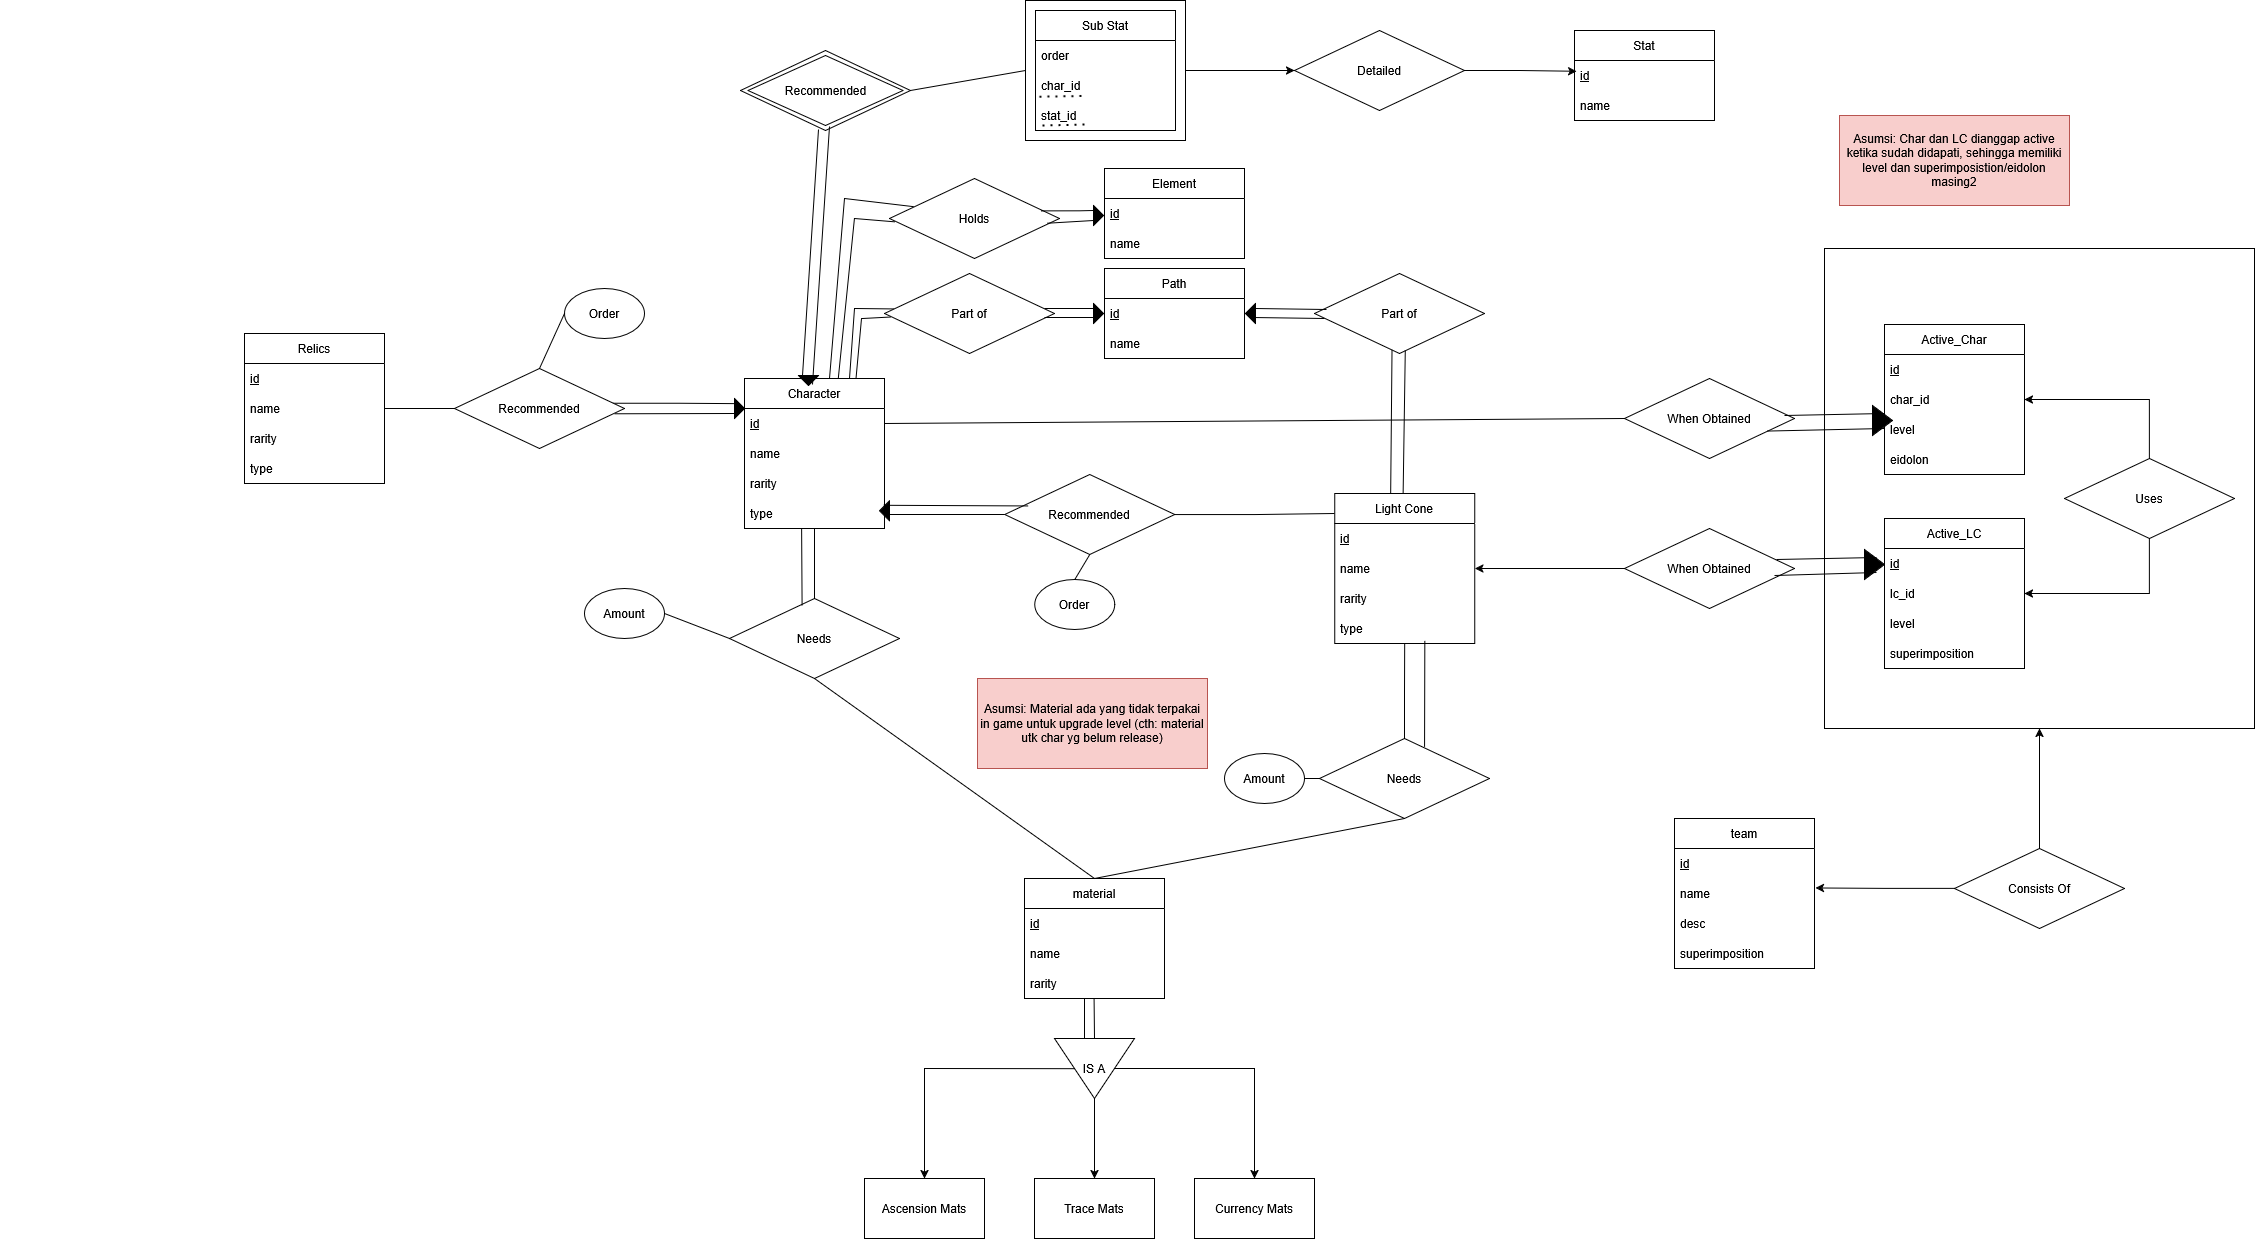
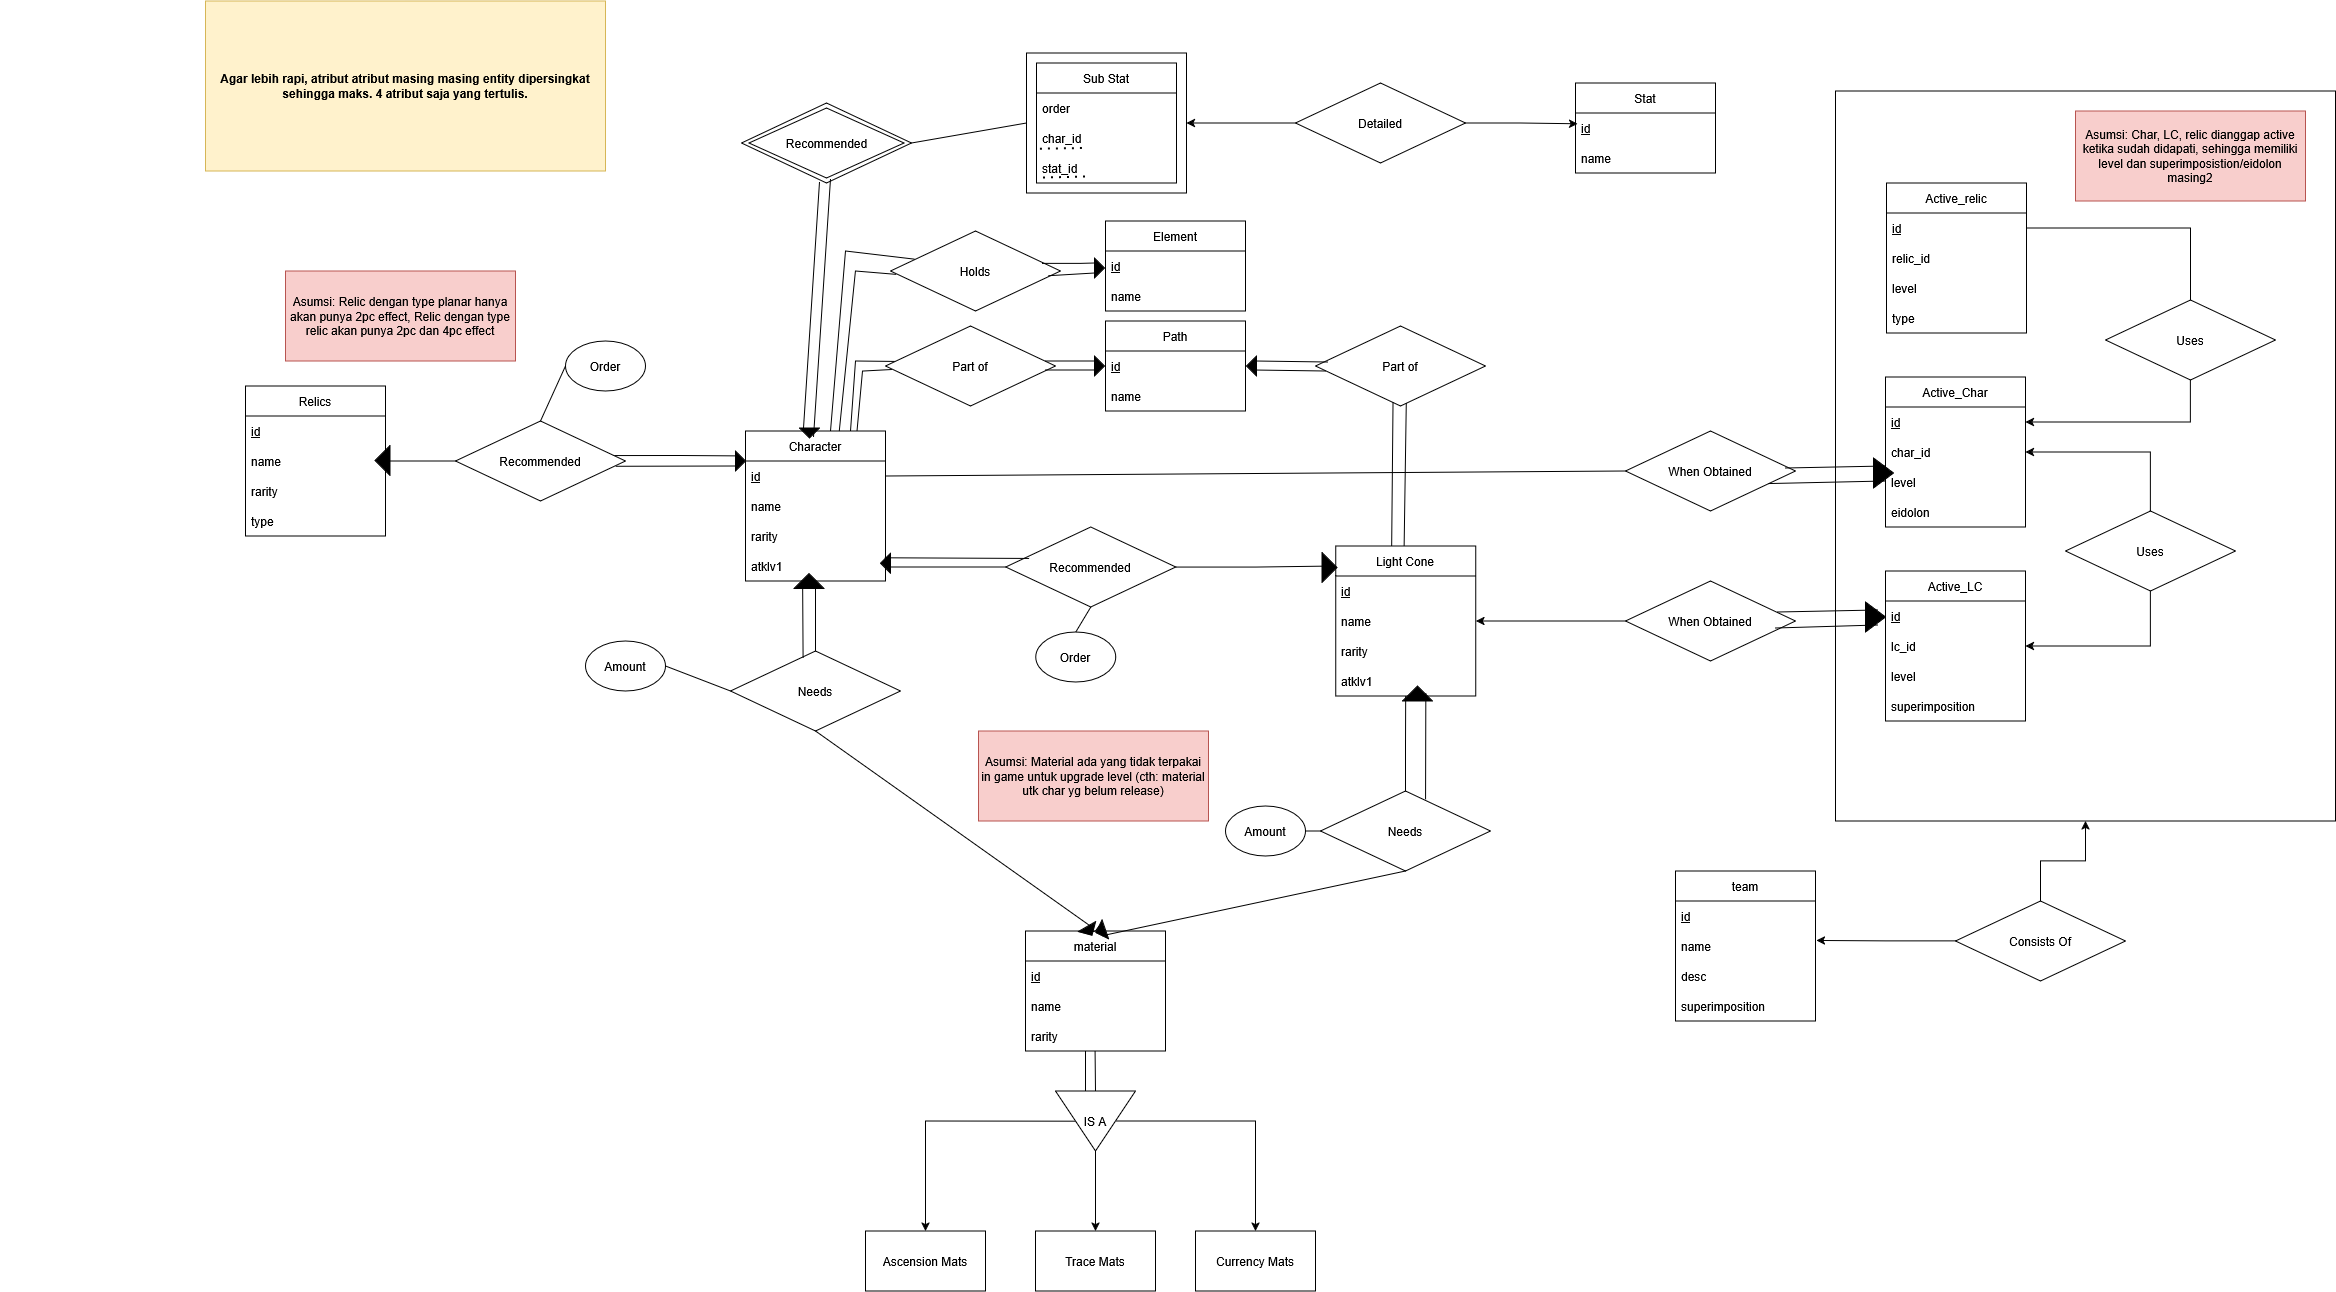
finalize

diff --git a/main.py b/main.py
@@ -3,7 +3,6 @@ import sys
 import subprocess
 import psycopg2
 
-# Add Data Storing/src to path to import load_data
 sys.path.append(os.path.join(os.path.dirname(os.path.abspath(__file__)), 'Data Storing', 'src'))
 from load_data import load
 
@@ -18,25 +17,19 @@ DB_CONFIG = {
 def main():
     root_dir = os.path.dirname(os.path.abspath(__file__))
     
-    # 1. Run Data Scraping/src/main.py
     print("--- [MAIN] Run Data Scraping ---")
     scraping_src = os.path.join(root_dir, 'Data Scraping', 'src')
     scraping_main = os.path.join(scraping_src, 'main.py')
-    
     try:
         subprocess.run([sys.executable, scraping_main], cwd=scraping_src, check=True)
     except subprocess.CalledProcessError as e:
         print(f"[MAIN::ERROR] Data Scraping: {e}")
         return
 
-        
-    # 2. Run schema.sql
     print("\n--- [MAIN] Push schema.sql ---")
     schema_path = os.path.join(root_dir, 'Data Storing', 'src', 'schema.sql')
-    
     with open(schema_path, 'r', encoding='utf-8') as f:
         schema_sql = f.read()
-        
     print(f"[MAIN] Connecting to database {DB_CONFIG['dbname']} at {DB_CONFIG['host']}:{DB_CONFIG['port']}...")
     try:
         conn = psycopg2.connect(**DB_CONFIG)
@@ -48,7 +41,6 @@ def main():
     except psycopg2.Error as e:
         print(f"[MAIN::ERROR] schema.sql: {e}")
         
-    # 3. Run load() in load_data.py
     print("\n--- [MAIN] Run load_data.load() ---")
     try:
         load(DB_CONFIG)

diff --git a/README.MD b/README.MD
@@ -4,72 +4,110 @@
   ETL Project
   <br>
   <br>
-</h1>
 
-<h2 align="left">
-  <br>
-  Singkatnya?
-  <br>
-</h2>
-Pada tahap seleksi ini, peserta akan diminta untuk melakukan proses ETL yang meliputi data scraping, database modeling, dan data storing terkait sebuah topik yang dibebaskan kepada peserta. Peserta juga diminta untuk merancang sebuah model ERD dan model relasional yang akan diimplementasikan untuk menyimpan hasil proses data scraping sebelumnya. Tahap seleksi ini menguji kemampuan peserta untuk mengumpulkan data, merancang sebuah database, dan merealisasikan rancangan tersebut menjadi sebuah database relasional yang fungsional.
-  <br>
+## Author
 
-## Step 1: Data Scraping
-1. Pilih sebuah topik yang akan kalian jadikan sebagai tema pada seleksi _data scraping_ Anda. Daftarkan topik tersebut ke dalam spreadsheet berikut:
-[Daftar Topik Seleksi Asisten Lab Basis Data 2026](https://docs.google.com/spreadsheets/d/1cowSMPtWQApyALrypfMBJSOuqbXyGh2cCaDXKRs8fD4/edit?usp=sharing)
-    - Usahakan agar tidak ada dua atau lebih peserta dengan topik yang sama
-    - First come, first served. Bila ada dua atau lebih peserta dengan topik yang sama, peserta dengan topik yang sudah terdaftar duluan (berada di atas) akan diprioritaskan.
-    - Akses edit ke _spreadsheet_ topik data scraping akan ditutup pada tanggal **25 Juli pukul 20:40 WIB**
-2. Lakukan _data scraping_ dari sebuah _web page_ untuk memperoleh data dan informasi sesuai dengan topik yang telah dipilih oleh masing-masing peserta. 
-    - Data dan informasi yang diperoleh akan digunakan di _step_ berikutnya sebagai data yang akan disimpan di dalam sebuah RDBMS
-    - Peserta **DILARANG** menggunakan API untuk melakukan proses data scraping
-3. Pada folder `Data Scraping`, peserta harus mengumpulkan file _script_ dan file JSON hasil _scraping_ yang telah dilakukan
-    - Folder `src` berisi _script_/_code_ yang telah digunakan untuk _scraping_. Pastikan bahwa _script_/_code_ yang kalian bua bersifat well documented dan clean. 
-    - Folder `data` berisi semua data dan informasi yang berhasil kalian scrape dalam bentu JSON. Peserta diperbolehkan untuk memisahkan hasil _scraping_ ke dalam file-file yang berbeda ataupun digabung dalam satu file yang besar. Yang penting sesuai dengan output dari _script_ _data scraping_ yang digunakan
-    - Folder `screenshot` berisi tangkapan layar dari _script/code_ yang kalian gunakan untuk _data scraping_. Pastikan tangkapan layar dapat dibaca dengan jelas
-4. Sebagai referensi untuk mempelajari dan mengenal _data scraping_, asisten telah menyiapkan dokumen panduan singkat pada link berikut: Panduan Singkat Data Scraping
-    - Dokumen tersebut hanya merupakan panduan bagi peserta. Metodologi _data scraping_ yang digunakan oleh peserta seleksi basdat dibebaskan (asal sesuai peraturan)
-    - Perhatikan dan peragakan etika _data scraping_ yang baik dalam pelaksanaan seleksi ini
-5. Syarat data yang diperoleh dari proses data scraping: Data yang diperoleh harus di-_preprocessing_ terlebih dahulu
-    - Beberapa contoh _preprocessing_:
-        - Cleaning
-        - Parsing
-        - Transformation
-        - Dll
-    - Preprocessing dilakukan untuk memastikan data yang diterima tidak sepenuh-penuhnya mentah dan tidak dapat dipahami dengan mudah
-  
+- **Nama:** Natanael I Manurung
+- **NIM:** 13524021
 
-## Step 2: Data Modeling + Data Storing
-1. Dari hasil proses _data scraping_ yang telah dilakukan, lakukan perancangan _database_ dalam bentuk **ERD**. Sertakan asumsi dan penjelasan di dalam desain ERD-nya bila diperlukan
-2. Translasikan hasil desain ERD tersebut ke dalam bentuk diagram relasional. Peserta dipersilahkan untuk menambahkan tabel lain yang sekiranya relevan atau berkaitan dengan tabel-tabel yang murni didapatkan dari proses _data scraping_.
-3. Implementasikan skema diagram relasional tersebut ke dalam RDBMS sesuai pilihan peserta (PostgreSQL, mariaDB, etc). Peserta **dilarang** untuk menggunakan DBMS no-SQL
-    - Jangan lupa untuk mengimplementasikan _constraints_ ke dalam _database_ (primary key, foreign key, trigger, dll)
-4. Setelah _database_-nya telah diimplementasikan, masukkan data yang didapatkan dari proses _scraping_ ke dalam RDBMS yang telah dibuat
-    - Tabel tambahan yang dibuat pada poin 2 tidak perlu diisi dengan data (baik data _dummy_ maupun data asli). Cukup dibiarkan kosong
-5. Tools yang digunakan dibebaskan kepada peserta
-6. Pada folder `Data Storing`, peserta harus mengumpulkan bukti penyimpanan data pada DBMS. Folder `Data Storing` terdiri dari folder `design`, `export`, dan `screenshots`.
-    - Folder `design` berisi gambar ERD dan gambar diagram relasional dari _database_ yang kalian rancang. Format file yang diterima adalah **.png**
-    - Folder `src` berisi script/code yang telah digunakan untuk storing. Pastikan bahwa script/code yang kalian bua bersifat well documented dan clean. 
-    - Folder `export` berisi file hasil _export_ dari DBMS dengan format **.sql**
-    - Folder `screenshots` berisi tangkapan layar bukti dari penyimpanan data ke dalam RDBMS (Query SELECT FROM WHERE pada RDBMS)
+## Deskripsi Singkat
 
-## Bonus:
-Task-task berikut merupakan bonus yang **TIDAK WAJIB** dilakukan oleh peserta seleksi. Penyelesaian satu atau lebih dari task bonus akan membawa nilai tambahan bagi peserta yang menyelesaikannya. Peserta dibolehkan untuk mengerjakan sebagian atau seluruh dari task bonus yang tersedia
-1. Buatlah perancangan dan implementasi data warehouse berdasarkan data yang diperoleh dari proses data scraping. Rancanglah skema yang diperlukan untuk fact table dan dimension table (misalnya menggunakan pendekatan star schema atau snowflake schema) untuk mendukung kebutuhan analitik. Sertakan struktur skema data warehouse yang digunakan beserta contoh query analitik yang bisa dijalankan terhadap data tersebut. 
-2. Lakukan automated scheduling untuk keseluruhan proses, sehingga data dapat di-update secara berkala. Pastikan tidak terdapat redundansi data pada DBMS. Jika mengerjakan bonus ini, jelaskan pada README dan cantumkan pada data waktu pelaksanaan scheduling, misalnya dengan menunjukkan perbedaan timestamp ekstraksi antara data pada batch pertama dan data pada batch kedua
+**Data & DBMS:**
+Data yang diambil adalah data karakter, light cone, relic, dan material dari game Honkai Star Rail. DBMS yang digunakan adalah PostgreSQL. Data akan diambil dari website game8.co, website guide yang berisikan data data tertera. Dikarenakan ini adalah website guide, data yang ditarik bukan hanya data data masing masing entity saja. Terdapat rekomendasi rekomendasi pairing, antara karakter dan LC, karakter dan Relic, dan pairing lainnya yang akan tercantum pada database.
 
+**Mengapa memilih topik tersebut:**
+Selain dari ketertarikan pribadi terhadap topik ini, data yang ditarik saling berkaitan, jumlahnya yang banyak, dan informasi yang bersifat widely available menurut saya menjadi salah satu contoh terbaik terhadap pengaplikasian tugas data scraping. Mengapa memilih website game8.co? Karena data datanya paling "cocok" adanya disitu, meski pada awalnya mau menggunakan prydwen.gg, namun web yang kompleks dan cloudflare yang agresif mengakibatkan beautifulsoup terlalu kewalahan dalam melakukan webscraping. Struktur game8.co "mostly" konsisten, tapi tetap dihadapi beberapa masalah terkait konsistensi baik pada struktur web atau dari data yang tercantum
 
-# Pengumpulan
-1. Peserta diwajibkan untuk melakukan _fork_ terhadap project [GitHub Seleksi Lab Basdat 2026](https://github.com/wargabasdat/Seleksi-2026-Tugas-1). Peserta harus melakukan _pull request_ dengan nama **TUGAS_SELEKSI_1_[NIM]** sebelum tenggat waktu yang telah ditetapkan
-2. Tambahkan **.gitignore** pada _file_ atau _folder_ yang tidak perlu di-upload. NB: Binary tidak perlu di-upload
-3. Sertakan file **README** yang memuat:
-    - Author (Nama dan NIM)
-    - Deskripsi singkat mengenai data dan DBMS yang telah dibuat + mengapa kalian memilih topik tersebut
-    - Cara menggunakan scraper yang telah dibuat dan menggunakan hasil output-nya
-    - Penjelasan struktur dari file JSON yang dihasilkan scraper
-    - Struktur ERD dan diagram relasional RDBMS
-    - Penjelasan mengenai proses translasi ERD menjadi diagram relasional
-    - Beberapa screenshot dari program yang dijalankan (image di-upload sesuai folder-folder yang tersedia, di README tinggal ditampilkan)
-    - Referensi (library yang digunakan, link halaman web yang di-scrape, etc)
-  
-# DEADLINE PENGUMPULAN ADALAH TANGGAL 23 Juli 2026, PUKUL 22:40
+## Cara Menggunakan Scraper dan Output-nya
+
+**Menjalankan Scraper:**
+
+1. Pastikan credential postgres (username, password, port) sudah tepat di `main.py`
+2. Install dependencies: `pip install -r requirements.txt`
+3. Jalankan script utama: `python main.py`
+
+**Menggunakan Output:**
+
+- Hasil scraping akan disimpan dalam folder `Data Scraping/data/` dalam bentuk file JSON.
+- Secara otomatis, `main.py` akan menjalankan query dari `schema.sql` dan loading data dari JSON ke dalam PostgreSQL.
+
+## Struktur File JSON
+
+Berikut adalah struktur dari file JSON yang dihasilkan oleh scraper di folder `Data Scraping/data/`:
+
+- **characters.json:** Kumpulan data karakter berupa _List of Dictionary_ yang berisi atribut `name`, `archive_id`, `url`, `basic_info` (rarity, path, element), `base_stats` (HP, ATK, DEF, SPD untuk level 1 dan 80), `best_build` (rekomendasi light cone, relic, dan main stats), `recommended_stats` (sub-stats priority), serta `total_materials` (material ascension dan traces).
+- **light_cone.json:** Kumpulan data Light Cone berupa _List of Dictionary_ yang memuat `name`, `archive_id`, `url`, `basic_info` (rarity, path), `base_stats` (HP, ATK, DEF level 1 dan 80), `passive_skill` (nama dan deskripsi pasif), dan `total_materials` (kebutuhan material ascension).
+- **relic.json:** Kumpulan data Relic dan Planar berupa _List of Dictionary_ yang meliputi `name`, `archive_id`, `url`, `type` (relic atau planar), dan `set_effects` (deskripsi efek 2-piece dan 4-piece).
+- **materials.json:** Daftar material berupa _List of Dictionary_ yang berisi `name`, `rarity` (rating bintang), dan `type` (kategori seperti currency, ascension_mat, atau trace_mat).
+
+## Struktur ERD dan Diagram Relasional
+
+Pada skema kita akan selalu berpusat pada 4 entity utama: Character, Light Cone, Relic, dan Materials. Rekomendasi penggunaan suatu barang (char - LC, char - Relic, dsb) beserta dengan keterikatan material yang digunakan untuk upgrade char atau LC semua akan kita tuliskan dalam sebuah weak entity relation berisikan key dari kedua entity yang bersangkutan. Untuk memunculkan adanya relasi antara char dan LC yang digunakannya sekarang, ditambahkan empat relasi/entity active_char, active_lc, active_relic, dan team sebagai hub dari relasi relasi "active" tersebut. Team ini akan menjadi representasi tim yang aktif digunakan player berisikan kit yang benar benar digunakannya.
+
+- **ERD:**
+  ![ERD](Data%20Storing/design/erd.png)
+- **Diagram Relasional:**
+  ![Relational Diagram](Data%20Storing/design/relational_diagram.png)
+
+## Proses Translasi ERD ke Diagram Relasional
+
+### 1. Strong entity -> Tabel dengan Primary Key Tunggal
+
+Strong entity kuat pada ERD (Character, Light Cone, Relics/relic_set, Element, Path, Stat, material, team) ditranslate menjadi satu tabel dengan surrogate key (serial) sebagai primary key, misalnya character_id, light_cone_id, relic_set_id. Atribut natural seperti archive_id (hasil scraping) tetap disimpan sebagai unique key alternatif untuk keperluan traceability terhadap sumber data dari scraping, bukan sebagai PK utama.
+
+### 2. Relasi One-to-Many -> Foreign Key pada Sisi "Many"
+
+Relasi seperti Part of (Character/Light Cone → Path) dan Holds (Character → Element) ditranslate menjadi kolom foreign key pada tabel di sisi "many":
+
+character.path_id dan character.element_id
+light_cone.path_id
+
+Pola yang sama berlaku pada relasi When Obtained (Character → Active_Char, Light Cone → Active_LC), di mana active_character.character_id dan active_character.equipped_lc_id menjadi FK yang menunjuk ke entitas induknya.
+
+### 3. Relasi Many-to-Many -> Tabel Junction
+
+Setiap relasi many-to-many pada ERD (Recommended, Needs) ditranslate menjadi tabel junction tersendiri dengan composite primary key dari kedua FK yang terlibat, ditambah atribut milik relasi itu sendiri:
+
+Character Needs Material (atribut Amount) -> character_ascension_material dan character_trace_material (dipisah berdasarkan type material agar query lebih spesifik)
+Light Cone Needs Material -> light_cone_ascension_material
+Character Recommended Light Cone (atribut Order) -> character_recommended_lc dengan kolom priority_rank
+Character Recommended Relics -> character_recommended_relic dengan kolom priority_rank
+
+Karena satu relasi Recommended pada ERD digambar generik untuk beberapa pasangan entitas berbeda (Relics, Light Cone, Sub Stat), masing-masing decompose menjadi tabel junction terpisah agar tidak ambigu secara relasional.
+
+### 4. Weak Entity -> Tabel dengan Composite Key yang Mengandung FK strongnya
+
+Entitas Sub Stat pada ERD sebenarnya adalah representasi relasi many-to-many antara Character dan Stat (via relasi Detailed) yang memiliki atribut order. Ini ditranslate menjadi dua tabel:
+
+character_sub_stat_priority (composite PK: character_id, stat_id)
+character_main_stat (composite PK: character_id, slot, stat_id), karena satu karakter punya prioritas stat berbeda untuk tiap slot gear.
+
+### 5. Relasi Generalisasi/ISA -> Single Table dengan Kolom Diskriminator
+
+Generalisasi Material IS A {Ascension Mats, Trace Mats, Currency Mats} tidak ditranslate menjadi tabel terpisah per subtipe, melainkan digabung menjadi satu tabel material dengan kolom type (ascension_mat | trace_mat | currency) sebagai diskriminator. Pendekatan ini dipilih karena seluruh subtipe berbagi struktur atribut yang identik (name, rarity), sehingga pemisahan tabel hanya akan menambah kompleksitas join tanpa manfaat.
+
+### 6. Relasi One-to-One -> FK Nullable dengan Unique Constraint
+
+Relasi Uses antara Active_Char dan Active_LC ditranslate sebagai FK nullable pada tabel active_character (equipped_lc_id), karena satu karakter aktif bisa saja belum memiliki Light Cone terpasang. Constraint tambahan (lc_superimposition wajib diisi jika equipped_lc_id tidak NULL) tidak bisa diekspresikan murni lewat DDL relasional, sehingga diimplementasikan melalui trigger (trg_check_lc_superimposition).
+
+### 7. Constraint yang Tidak Bisa Direpresentasikan Secara Struktural -> Trigger
+
+Beberapa aturan pada catatan ERD ("Asumsi") tidak bisa dinyatakan lewat kolom atau FK biasa, sehingga diimplementasikan sebagai trigger PostgreSQL:
+
+trg_check_relic_type: memastikan effect_4pc wajib diisi untuk relic_set.type = 'relic' dan harus NULL untuk type = 'planar'.
+trg_check_lc_superimposition: memastikan lc_superimposition terisi jika dan hanya jika equipped_lc_id tidak NULL.
+
+## Screenshots Program
+
+Screenshot hasil query di DBMS (SELECT FROM WHERE)
+![Database](Data%20Storing/screenshot/dt.png)
+
+Screenshot hasil query character
+![Database](Data%20Storing/screenshot/character.png)
+
+## Penggunaan AI
+
+Penggunaan AI terbatas terhadap bagaimana baiknya melakukan web scraping menggunakan beautiful soup. Dikarenakan ini modul yang baru saya pelajari, AI digunakan untuk melakukan drilling pribadi terhadap konsep konsep web scraping pada beautiful soup.
+Semua pengerjaan coding, penyusunan skema, dan pengimplementasian database di postgres saya lakukan pribadi.
+
+## Referensi